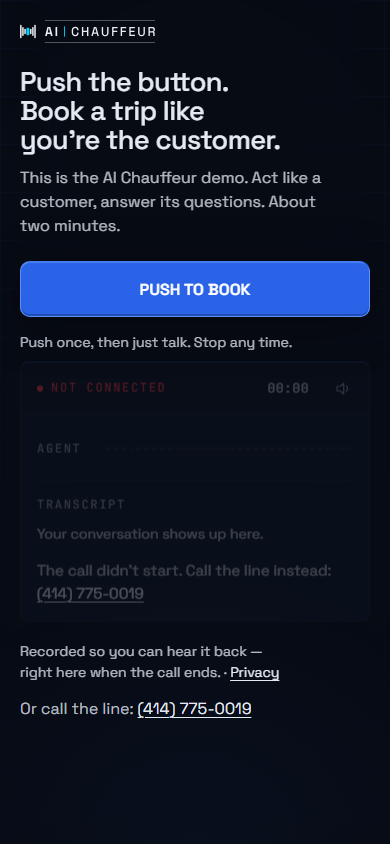
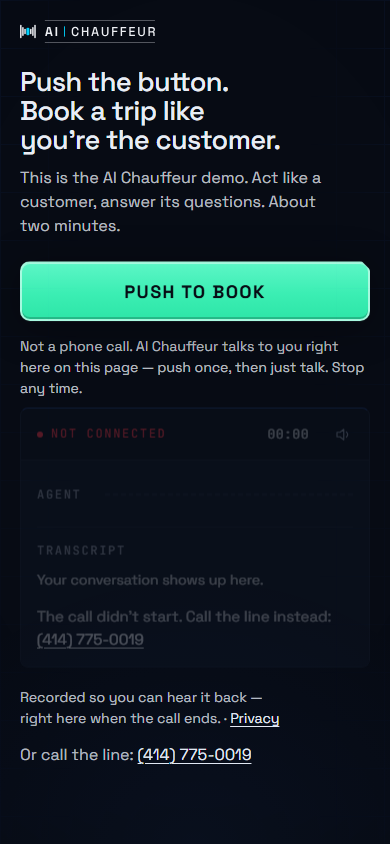
try v7 ledger: the board, the run report, the production proof
board.json: aic-try label moves to v7 with deploy and rollback ids (status was
already live), and the run log gains the ISO-timestamped v7 entry.
reports/2026-09-13-aic-try-v7.md is the readback mirror.
audits/aic-try/prod-*.png and prod-v7-*.png are the production render-gate
captures of 41baf9e at DPR 2; call-prod-*.png are the real production call
call_f72d1f95a7364e3c90bdd6d9a47: End demo live, green at ended, the trip sheet.

Claude-Session: https://claude.ai/code/session_01FEvxgYifxen7huBtXb4fSK

diff --git a/reports/2026-09-13-aic-try-v7.md b/reports/2026-09-13-aic-try-v7.md
@@ -1,0 +1,45 @@
+# AIC /try v7 — PUSH BUTTON
+
+2026-09-13 · commit `41baf9e` · deploy `dpl_3mG4LCjXiU3j1XjhDiVRQC9q34Si` · https://aichauffeur.ai/try
+
+```
+===== SHANE READBACK — COPY ALL =====
+LIVE — aichauffeur.ai/try has the v7 button: green, bordered, lit and steady. While the demo runs it goes dark and says "End demo".
+
+WHAT CHANGED
+- The button no longer grows and shrinks. It is green with a bright mint edge, and only its light pulses.
+- While the demo runs, the button is dark with a green edge and says "End demo". The panel tells people what to say first.
+- The line under the button now says it is not a phone call. When the demo ends, the button turns green again.
+
+DONE — https://aichauffeur.ai/try · commit 41baf9e
+| # | Check (DPR 2, 390×844 and 430×932) | Result | Measured |
+|---|---|---|---|
+| 1 | No sideways scroll | PASS both | scrollWidth 390/390 · 430/430 |
+| 2 | Ready face | PASS both | letters rgb(7, 11, 20) · weight 700 · ::before border 2px rgba(190,255,232,.95) · green linear-gradient 74,243,190 → 46,230,168 → 38,214,155 · notch polygon identical to the site's .btn-primary |
+| 3 | Pulse is smooth | PASS both | brightness 1 → 1.00775 → 1.03 → 1.05225 → 1.06 at 0/400/800/1200/1600 ms · 3 drop-shadows in every sample · 97 distinct values in 97 frames, biggest frame step 0.0011 |
+| 4 | Never changes size | PASS both | button and wrapper transform none across 200 frames |
+| 5 | Crest look | PASS both | brightness 1.06 · light 2px outside the edge 71,144,122 (trough 37,80,71) · inside the notch 59,121,105 · mint edge 193,255,243 · letters 11.76:1 at crest, 10.47:1 at trough · screenshots looked at |
+| 6 | Hover / press | PASS both | hover: pulse paused · press: matrix(0.985, 0, 0, 0.985, 0, 2), pulse off |
+| 7 | State cycle | PASS both + real call | connecting and live: face rgb(13,20,32), 2px edge rgba(46,230,168,.75), letters rgb(232,237,245), no animation, no glow · live: "End demo" + starter line · ended: green, glow .5, still, PUSH TO BOOK · real call_f72d1f95a7364e3c90bdd6d9a47 on the live URL showed the same |
+| 8 | Reduced motion | PASS both | animation none · steady glow .55, same value 1 s apart |
+| 9 | Nothing else moved | PASS | vs 22095dc: 2 script lines, 1 markup line, head outside <style> identical, 32 elements × 30 properties + markup + size identical |
+Left alone on purpose: aic.css and circulant.css (their old blue hover fill still sits under every other notched button on the site), n8n and the agent, and the connecting label and mic note.
+
+IDS + ROLLBACK
+- Page commit 41baf9e
+- Deploy dpl_3mG4LCjXiU3j1XjhDiVRQC9q34Si (READY, on aichauffeur.ai)
+- Roll back: promote dpl_DymGBhdDSC87hPXtwHEzdqUkdN1h (v4.1) in Vercel, or git revert 41baf9e && git push
+- Real call: call_f72d1f95a7364e3c90bdd6d9a47 (21 s, agent v27, source aichauffeur.ai/try)
+- n8n WF-TRY-WEBCALL untouched
+
+NEXT — only Shane
+- One look on the iPhone: push, say the starter line, press End demo.
+
+GOTCHAS
+- One line was added after your v7 CSS: the button's host gets background:none. Old site CSS paints the host blue on hover and press, and it showed as a blue sliver in the notch. iPhones keep hover after a tap, so it would have sat on End demo. The v7 block itself is byte-for-byte.
+- While connecting, the button says "Connecting" and the note is the mic hint. Those strings were left alone as asked. "End demo" and the starter line appear once the demo is live.
+- The green face and the glow break CLAUDE.md (green only when something is booked, no shadows or glow) and the chauffeur glow rule. Shipped as written, because your instruction comes first.
+- My contrast checker had two bugs: it misread gradients and the layer order. Both are fixed. A 4.41:1 failure along the way was the checker, not the page.
+- The board item was already live, so its status stayed live. Its label and log are updated.
+- The live check used one of this hour's three calls from this machine.
+```
